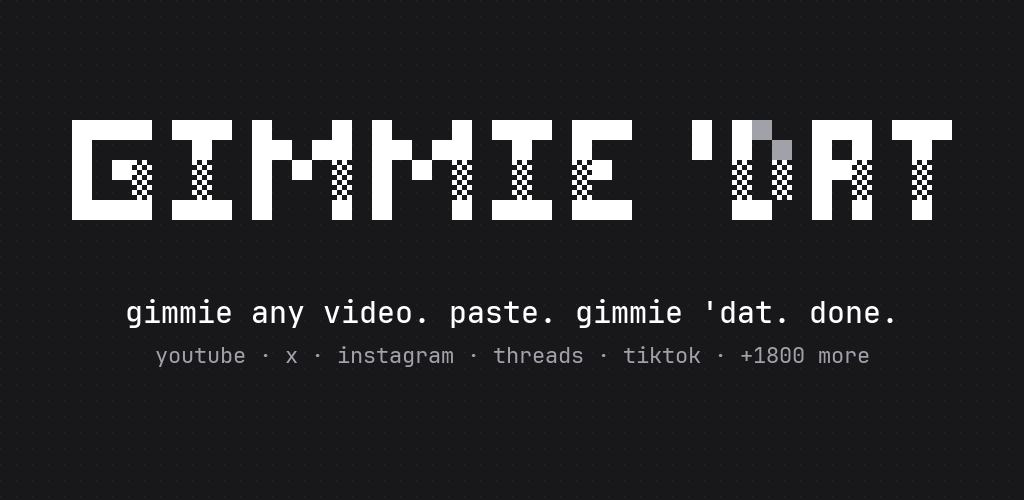
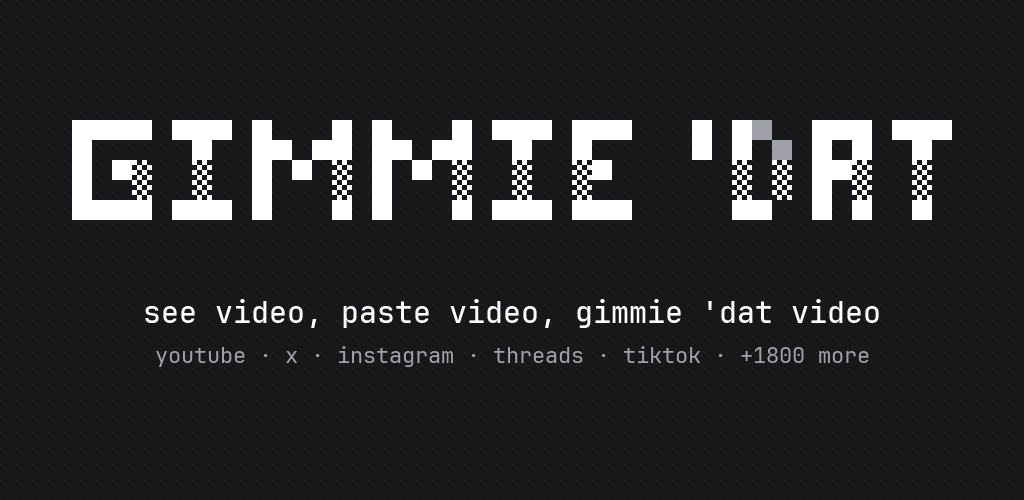
Gimmie 'Dat 1.0.1: new tagline
The line under the logo now reads "see video, paste video, gimmie 'dat
video", in the app, the feature graphic and the store description.

external/yt-dlp pins yt-dlp 2026.08.19 as a submodule, the release that
res/raw/ytdlp bundles, so F-Droid can rebuild that file from source.

Changed region(s): [[0.125, 0.6, 0.5312, 0.66], [0.75, 0.6, 0.875, 0.66]]

diff --git a/app/src/main/java/app/gimmiedat/ui/Screens.kt b/app/src/main/java/app/gimmiedat/ui/Screens.kt
@@ -102,7 +102,7 @@ import kotlinx.coroutines.launch
 
 enum class ClipState { NONE, TEXT, LINK }
 
-private const val TAGLINE = "gimmie any video. paste. gimmie 'dat. done."
+private const val TAGLINE = "see video, paste video, gimmie 'dat video"
 private const val REPO = "github.com/rcrandon/gimmiedat"
 private const val SITES = "youtube · x · instagram · threads\ntiktok · +1800 more"
 
